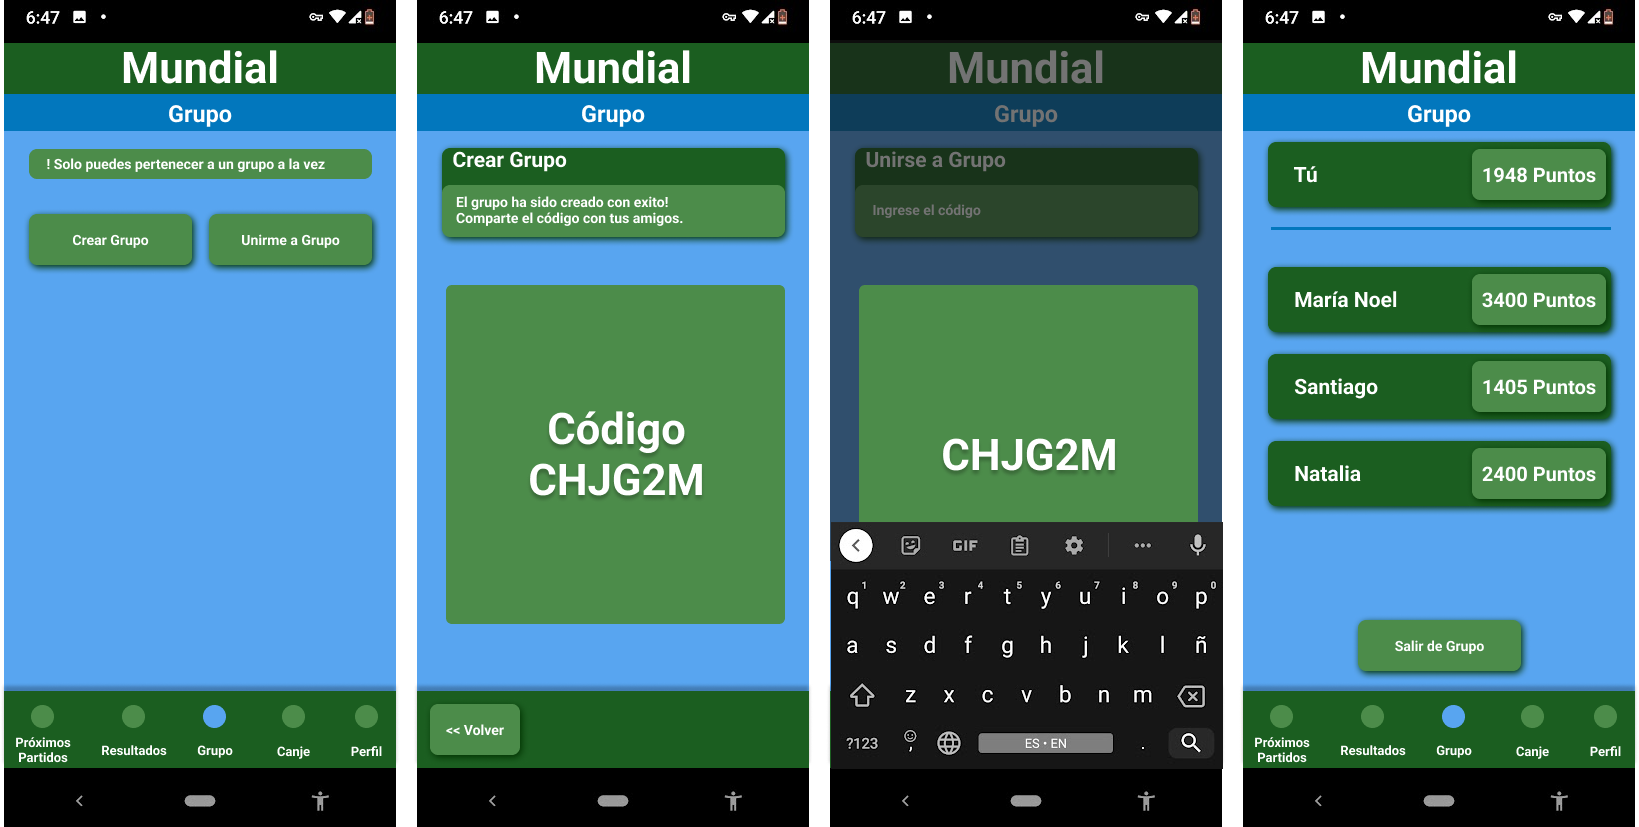
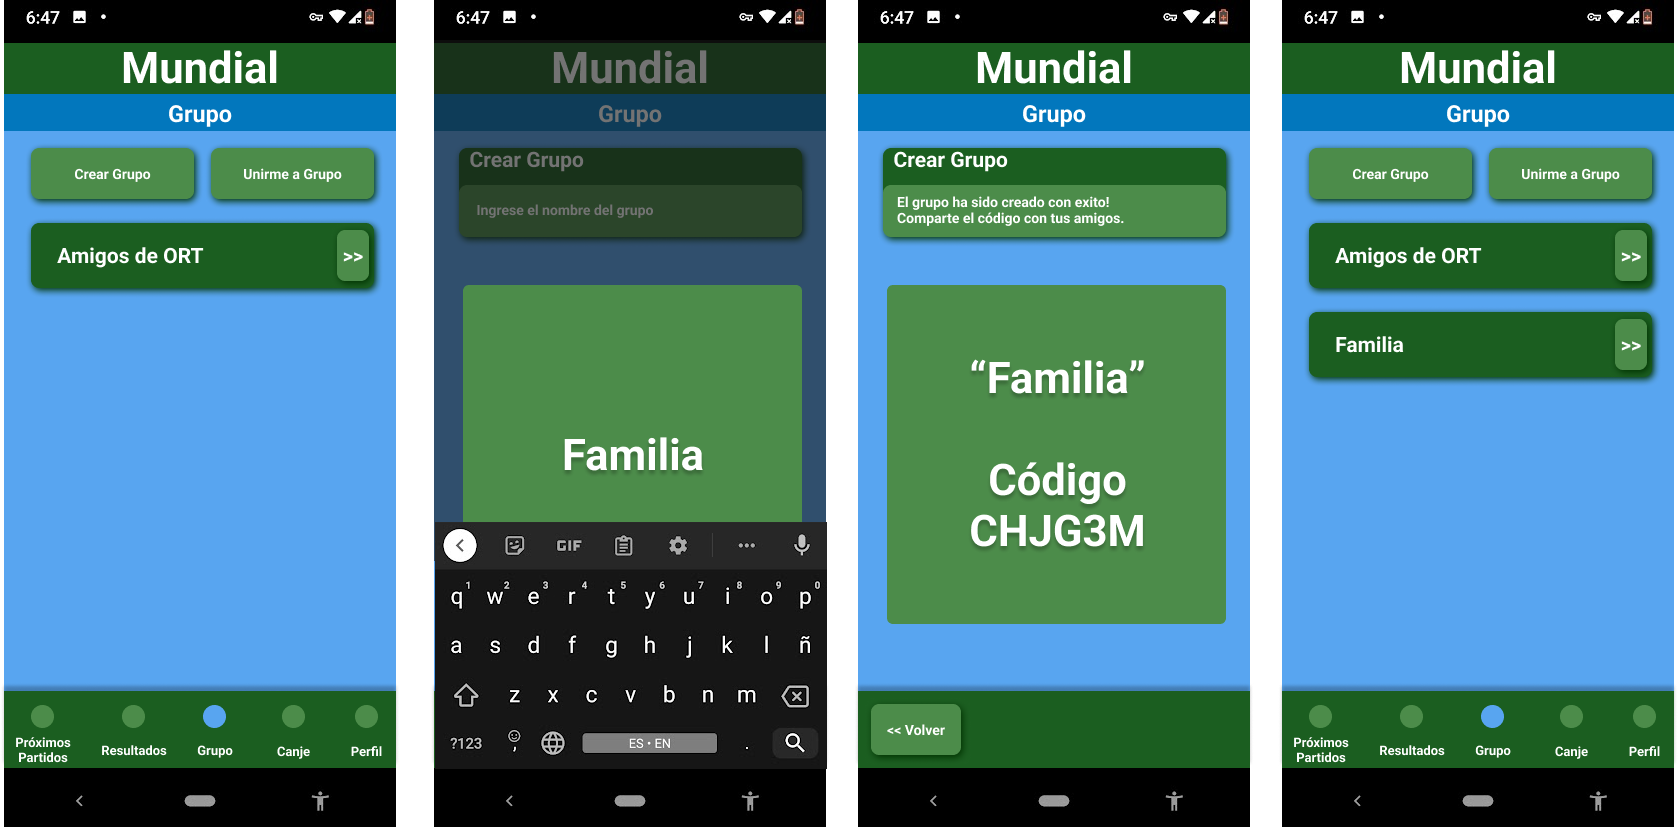
docs: trabajar más sobre user cases

diff --git a/docs/README.md b/docs/README.md
@@ -69,13 +69,13 @@ Finalmente, para que nuestros cambios se vean reflejados en la web de Github. Fi
 
 `$ git push`
 
-Si nos encontramos con algun tipo de error, que nos indique que la rama no existe de forma remota, repetimos el comando anterior de la siguiente forma:
+Si nos encontramos con algún tipo de error, que nos indique que la rama no existe de forma remota, repetimos el comando anterior de la siguiente forma:
 
 `$ git push --set-upstream origin develop`
 
 Este ultimo push se nos exige para generar una rama visible en el github
 ***
-Si un compañero, o nostros mismos tenemos el clon del git desde otro computador, podemos obtener la ultima version subida a github haciendo:
+Si un compañero, o nosotros mismos tenemos el clon del git desde otro computador, podemos obtener la ultima version subida a github haciendo:
 
 `$ git pull`
 ***
@@ -148,13 +148,13 @@ Pero aquí dejamos unos pocos commits como resumen:
 
 # Elicitación
 Técnicas de elicitación utilizadas:  
-Entrevista: Una entrevista es una reunión entre dos personas, donde se realizan una secuencia de preguntas, cuya respuesta será de ayuda para resolver asuntos relacionados al negocio, o las características de software a desarollar.
+Entrevista: Una entrevista es una reunión entre dos personas, donde se realizan una secuencia de preguntas, cuya respuesta será de ayuda para resolver asuntos relacionados al negocio, o las características de software a desarrollar.
 
 Encuesta: Una encuesta es un formulario con preguntas, el cual se presenta a un grupo de personas para que el mismo lo complete, con el objetivo de desarrollar la solución a un problema en base a las mismas.
 
 Ingeniería inversa: La ingeniería inversa es un proceso en cual se observa la construcción, diseño, y demás características de un producto ya construido, para así crear uno igual.
 
-User Persona: Los User Persona son un modelo ficticio de usuarios, que ayuda a generar una idea general de los motivos, necesidades, frustraciones, habitos que tiene el mismo, y así poder ofrecer un producto que se adapte a todas esas características.
+User Persona: Los User Persona son un modelo ficticio de usuarios, que ayuda a generar una idea general de los motivos, necesidades, frustraciones, hábitos que tiene el mismo, y así poder ofrecer un producto que se adapte a todas esas características.
 
 ## Etapas y posibles preguntas guía para la entrevista (10 minutos)
 ### Etapa 1: Introducción casual
@@ -395,10 +395,43 @@ Como usuario
 	Para luego canjearlos por premios  
 Criterios de aceptación:   
 	Que el partido haya finalizado y están disponibles los resultados en el panel de resultados.  
-	
 ***
-### US4:
-Título: Status  
+### US4: 
+Título: Crear Grupo  
+Requerimiento asociado: RF8  
+Narrativa:   
+    Como usuario  
+	Quiero crear un grupo  
+	Para pertenecer a uno  
+Criterios de aceptación:   
+	El usuario crea un grupo vacío, obteniendo el código de este  
+
+***
+### US5: 
+Título: Unirse a Grupo  
+Requerimiento asociado: RF8  
+Narrativa:   
+    Como usuario   
+	Quiero unirme a un grupo  
+	Para pertenecer a uno  
+Criterios de aceptación:   
+	El usuario se une a un grupo, utilizando el código de este  
+
+***
+### US6: 
+Título: Ver Grupo  
+Requerimiento asociado: RF8  
+Narrativa:   
+    Como usuario    
+	Quiero ver mis grupos    
+	Para saber como voy respecto a otros    
+Criterios de aceptación:   
+	El usuario ver el grupo  
+
+***
+
+### US7:
+Título: Status (Ver logros o puntos) 
 Requerimiento asociado: RF5 , RF6    
 Narrativa:   
 Como usuario  
@@ -407,19 +440,7 @@ Como usuario
 Criterios de aceptación:   
 	La visualización en pantalla de los puntos y logros del usuario
 ***
-### US5: 
-Título: Grupo  
-Requerimiento asociado: RF8  
-Narrativa:   
-    Como usuario  
-	Quiero crear o unirme a un grupo  
-	Para pertenecer a uno  
-Criterios de aceptación:   
-	El usuario se une o crea un grupo vacío, obteniendo o ingresando el código de este  
-
-***
-    
-### US6: 
+### US8: 
 Título: Canje  
 Requerimiento asociado: RF7  
 Narrativa:   
@@ -440,7 +461,7 @@ User story asociado: US1
 **Curso normal:**
 | Acción de los actores | Respuesta del sistema | 
 | -------- | -------- | 
-| 1. Selecciona “Próximos Partidos”| 2. Muestra los partidos más inmediatos, sus equipos y horarios |
+| 1. Selecciona “Próximos Partidos” (Figura 1)| 2. Muestra los partidos más inmediatos, sus equipos y horarios |
 
 (Figura 1):  
 ![](bocetosiu/UC1.png)
@@ -453,8 +474,8 @@ User story asociado: US2
 **Curso normal:**
 | Acción de los actores | Respuesta del sistema | 
 | -------- | -------- | 
-| 1. Selecciona “Ingresar predicción” en el área de “Próximos partidos” | 2. Muestra un campo de texto para poder ingresar la predicción. | 
-| 3. Presiona el botón “Confirmar Predicción” | 4. Se confirma la predicción |
+| 1. Selecciona “Ingresar predicción” en el área de “Próximos partidos” (Figura 2.1)| 2. Muestra un campo de texto para poder ingresar la predicción. (Figura 2.2) | 
+| 3. Presiona el botón “Confirmar Predicción” (Figura 2.3) | 4. Se confirma la predicción |
 
 (Figura 2): 
 ![](bocetosiu/UC2.png)
@@ -468,7 +489,7 @@ User story asociado: US3
 **Curso normal:**
 | Acción de los actores | Respuesta del sistema | 
 | -------- | -------- | 
-| 1. Selecciona área resultados| 2.Muestra los partidos de los cuales ya se conocen los resultados | 
+| 1. Selecciona área resultados (Figura 3)| 2.Muestra los partidos de los cuales ya se conocen los resultados | 
 | 3. El usuario clickea botón para reclamar sus puntos | 4. El sistema cambia el mensaje del botón a “ya reclamado” |
 
 **Curso alternativo:**
@@ -478,57 +499,79 @@ User story asociado: US3
 
 **3.2** El usuario ya reclamó previamente sus puntos  
 
-(Figura 3): 
+(Figura 3):  
 ![](bocetosiu/UC3.png)
 
 ***
 ### UC4:
 User story asociado: US5  
-**Título:** Crear un Grupo
+**Título:** Crear un Grupo   
 **Actor:** Usuario
 
 **Curso normal:**
 | Acción de los actores| Respuesta del sistema |
 | -------- | -------- |
 | 1. Selecciona área "Grupo" (Figura 4.1) | 2. Muestra los grupos a los que pertenece y arriba dos opciones|
-| 3. Selecciona "Crear grupo" (Figura 4.1)| 4. El sistema pide el ingreso de un nombre |
-| 5. Ingresa un nombre | 6. El sistema genera un código único para ese nuevo grupo (Figura 4.2)|
+| 3. Selecciona "Crear grupo" (Figura 4.1)| 4. El sistema pide el ingreso de un nombre (Figura 4.2)|
+| 5. Ingresa un nombre | 6. El sistema genera un código único para ese nuevo grupo (Figura 4.3)|
+| 5. Vuelve al menu de grupos | 6. El sistema muestra los grupos (Figura 4.4)|
 
 
 **Curso alternativo:**
 
-**5.1:** El nombre que ingreso es vacío, se pide reingreso.
+**5.1:** El nombre que ingreso es vacío, se pide reingreso.  
 
+(Figura 4):  
+
+![](bocetosiu/UC4.png)
 ### UC5:
 User story asociado: US5  
-**Título:** Unirse a Grupo
+**Título:** Unirse a Grupo    
 **Actor:** Usuario
 
 **Curso normal:**
 | Acción de los actores| Respuesta del sistema |
 | -------- | -------- |
-| 1. Selecciona área "Grupo" (Figura 4.1) | 2. Muestra los grupos a los que pertenece arriba dos opciones |
-| 3. Selecciona "Unirse a grupo" | 4. Muestra un campo de texto para ingresar el código |
-| 5. Ingresa el código | 6. Agrega al usuario al grupo |
+| 1. Selecciona área "Grupo" (Figura 5.1) | 2. Muestra los grupos a los que pertenece arriba dos opciones |
+| 3. Selecciona "Unirse a grupo" | 4. Muestra un campo de texto para ingresar el código (Figura 5.2)|
+| 5. Ingresa el código | 6. Agrega al usuario al grupo, mostrando el grupo (Figura 5.3)|
 
 
 **Curso alternativo:**
 
 **6.1:** El código que ingresó el usuario no pertenece a ningún grupo: se emite el mensaje "Este código no existe", pide reingreso.
 
-(Figura 4.1 4.2 4.3 4.4): 
-![](bocetosiu/UC4.png)
+(Figura 5):   
+![](bocetosiu/UC5.png)
 
-***
 ### UC6:
-User story asociado: US4  
-**Título:** Status
+User story asociado: US6   
+**Título:** Ver Grupo   
 **Actor:** Usuario
 
 **Curso normal:**
 | Acción de los actores| Respuesta del sistema |
 | -------- | -------- |
-| 1.Selecciona la opción “Perfil” en el área inferior. | 2.Muestra el puntaje actual del usuario. Y debajo sus logros acumulados|
+| 1. Selecciona área "Grupo" (Figura 6.1) | 2. Muestra los grupos a los que pertenece arriba dos opciones |
+| 3. Selecciona uno de los grupos clickeando en la flecha | 5. Muestra el grupo (Figura 6.2)|
+
+**Curso alternativo:**
+
+**3.1:** No pertenece a ningún grupo y se le indica.
+
+(Figura 6):   
+![](bocetosiu/UC6.png)
+
+***
+### UC7:
+User story asociado: US7  
+**Título:** Status (Ver logros o puntos)
+**Actor:** Usuario
+
+**Curso normal:**
+| Acción de los actores| Respuesta del sistema |
+| -------- | -------- |
+| 1.Selecciona la opción “Perfil” en el área inferior. (Figura 7) | 2.Muestra el puntaje actual del usuario. Y debajo sus logros acumulados|
 
 **Curso alternativo:**
 
@@ -536,27 +579,30 @@ User story asociado: US4
 
 En el área inferior, en la opción “Perfil”, el usuario es capaz de visualizar la cantidad de puntos acumulados en base a sus predicciones, al igual que sus logros.  
 
-![](bocetosiu/UC5.png)
+(Figura 7):  
+![](bocetosiu/UC7.png)
 
 ***
-### UC7:
-User story asociado: US6  
+### UC8:
+User story asociado: US8  
 **Título:** Canje + Ver artículos disponibles
 **Actor:** Usuario
 
 **Curso normal:**
 | Acción de los actores | Respuesta del sistema | 
 | -------- | -------- | 
-| 1. Selecciona el área "Canje" | 2. Muestra una lista con los productos disponibles | 
-| 3. Selecciona un producto de la lista | 4. Muestra los detalles del producto | 
+| 1. Selecciona el área "Canje" (Figura 8.1) | 2. Muestra una lista con los productos disponibles | 
+| 3. Selecciona un producto de la lista para canjearlo o ver su comprobante si ya lo canjeo previamente | 4. Muestra los detalles del producto (Figura 8.2) | 
 | 5. Selecciona "Confirmar canje" | 6. Muestra código del producto y dirección para ir a buscarlo | 
 
 **Curso alternativo:**
 
 **5.1:** El usuario no tiene suficientes puntos: se emite el mensaje "No tienes suficientes puntos"  
 
+**5.2:** El usuario ya lo canjeo previamente, por lo que ira directo a ver el comprobante y lugar de retiro 
 
-![](bocetosiu/UC6.png)
+(Figura 8):  
+![](bocetosiu/UC8.png)
 
 # Validación y verificación
 Realizamos un reencuentro con la persona entrevistada para presentarle el boceto de las características finales de la aplicación, su feedback fue positivo, sintió que pudimos plasmar las ideas generales que nos comentó a la perfección e ir más allá. 
